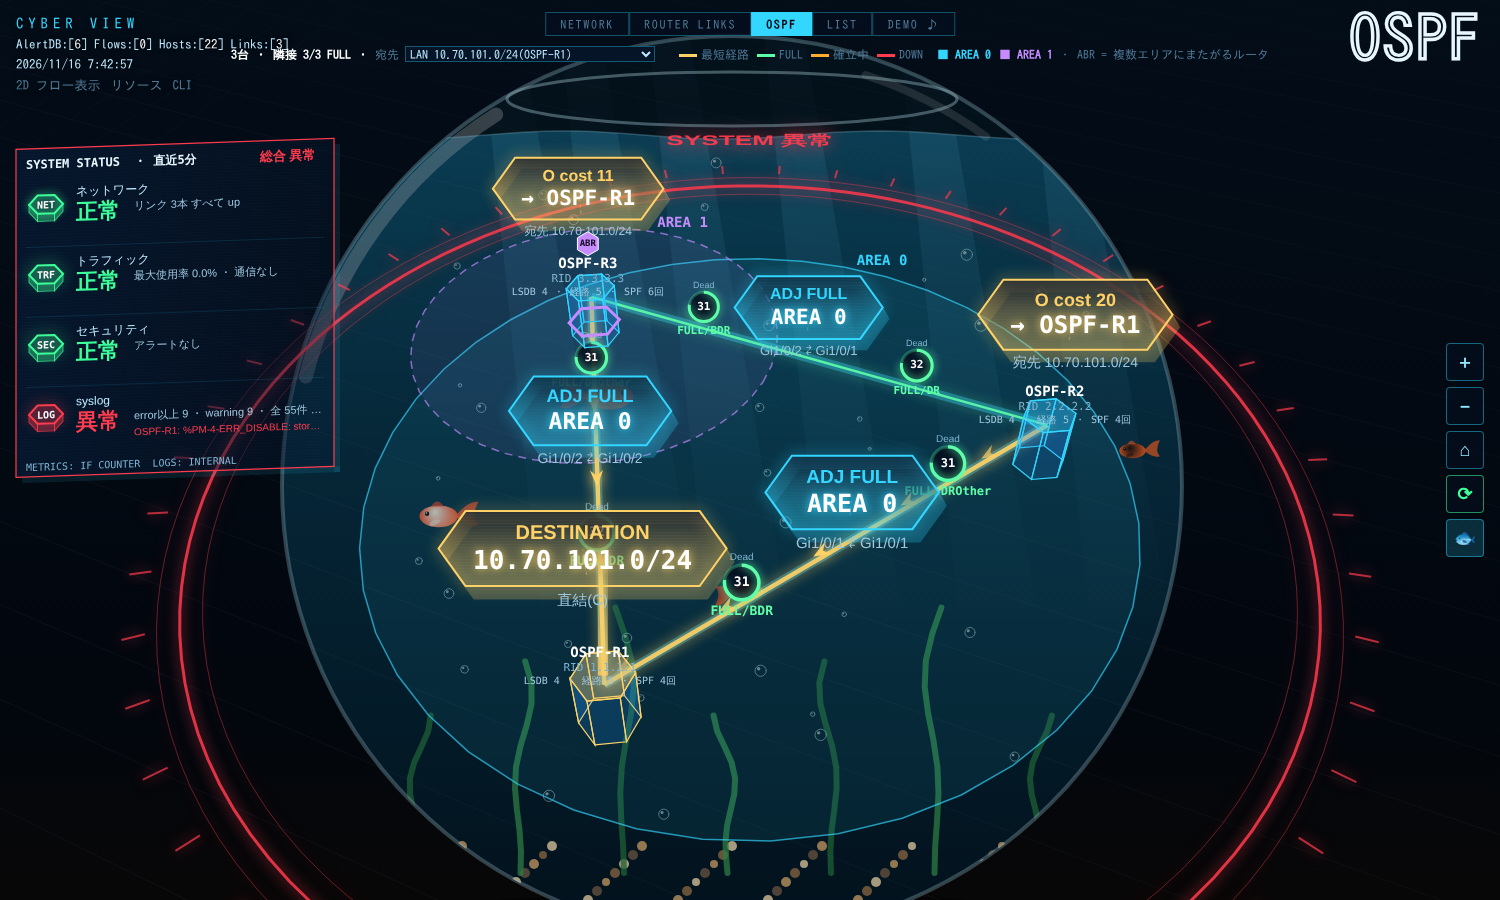
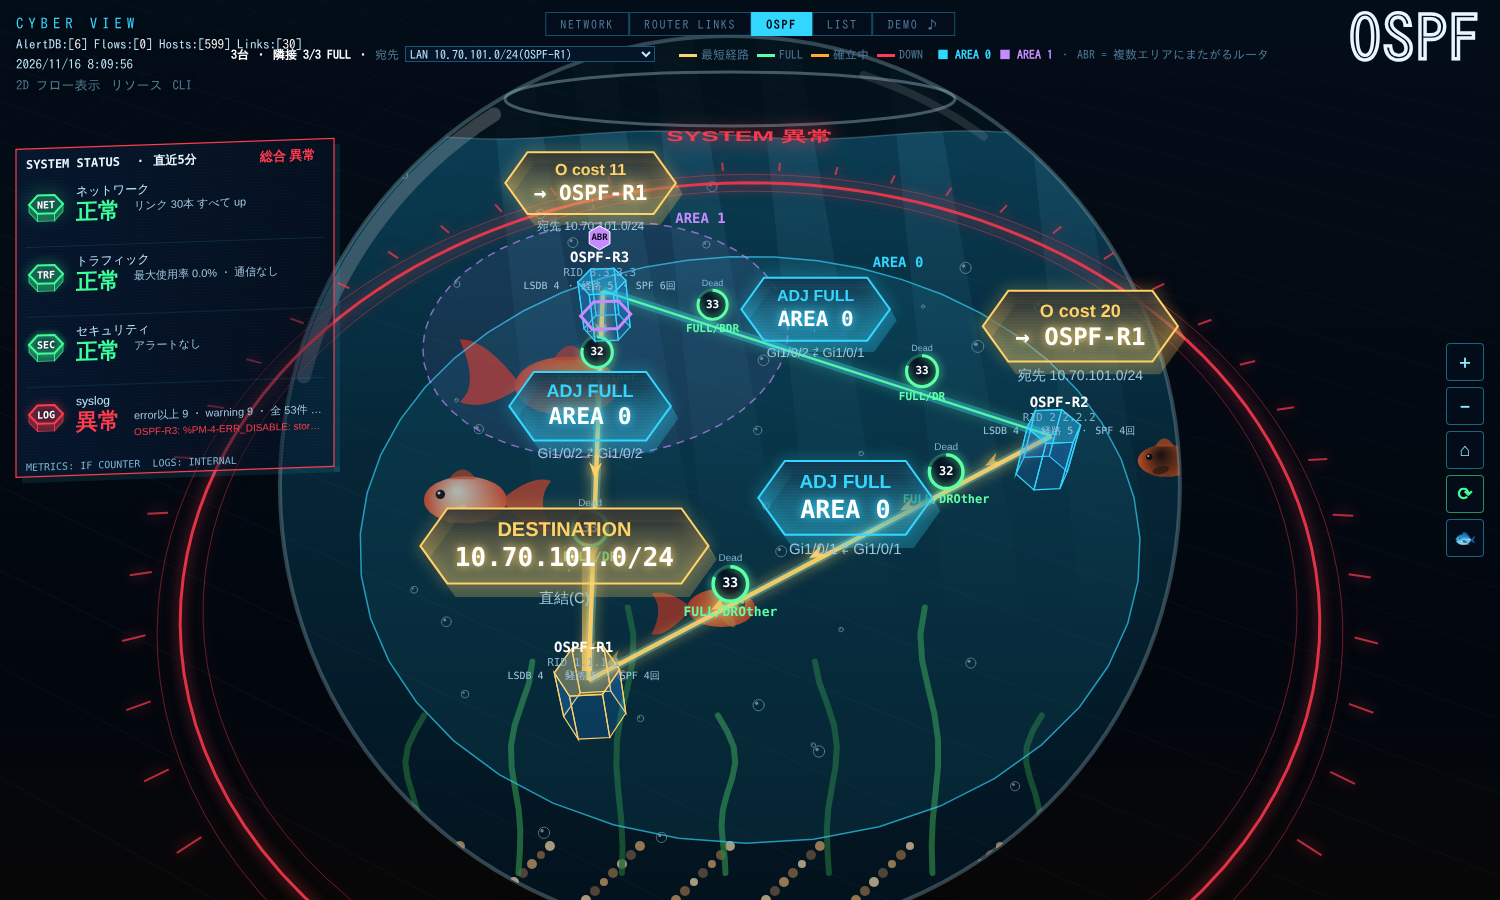
Cyber View goldfish bowl: larger goldfish (about 2x, scaled to bowl size)
Claude-Session: https://claude.ai/code/session_01L3ov5KdxsinkTVrwCnYcG2

diff --git a/cyber-view-standalone/web/cyber_view.html b/cyber-view-standalone/web/cyber_view.html
@@ -1668,7 +1668,7 @@
       ctx.beginPath(); ctx.arc(bx - b.r * 0.35, by - b.r * 0.35, b.r * 0.3, 0, Math.PI * 2); ctx.fillStyle = 'rgba(255,255,255,0.6)'; ctx.fill();
     }
     // 金魚(鉢の中を左右に泳ぐ)
-    const sc = Math.max(0.8, Math.min(1.8, R / 600));
+    const sc = Math.max(1.4, Math.min(2.6, R / 260));   // 金魚は大きめ(以前の約2倍)
     for (const f of FISH) {
       const u = ((f.ph + t * Math.abs(f.sp)) % 1), dir = f.sp > 0 ? 1 : -1;
       const x = dir > 0 ? cx - R * 1.1 + u * R * 2.2 : cx + R * 1.1 - u * R * 2.2;

diff --git a/static/cyber_view.html b/static/cyber_view.html
@@ -1668,7 +1668,7 @@
       ctx.beginPath(); ctx.arc(bx - b.r * 0.35, by - b.r * 0.35, b.r * 0.3, 0, Math.PI * 2); ctx.fillStyle = 'rgba(255,255,255,0.6)'; ctx.fill();
     }
     // 金魚(鉢の中を左右に泳ぐ)
-    const sc = Math.max(0.8, Math.min(1.8, R / 600));
+    const sc = Math.max(1.4, Math.min(2.6, R / 260));   // 金魚は大きめ(以前の約2倍)
     for (const f of FISH) {
       const u = ((f.ph + t * Math.abs(f.sp)) % 1), dir = f.sp > 0 ? 1 : -1;
       const x = dir > 0 ? cx - R * 1.1 + u * R * 2.2 : cx + R * 1.1 - u * R * 2.2;
